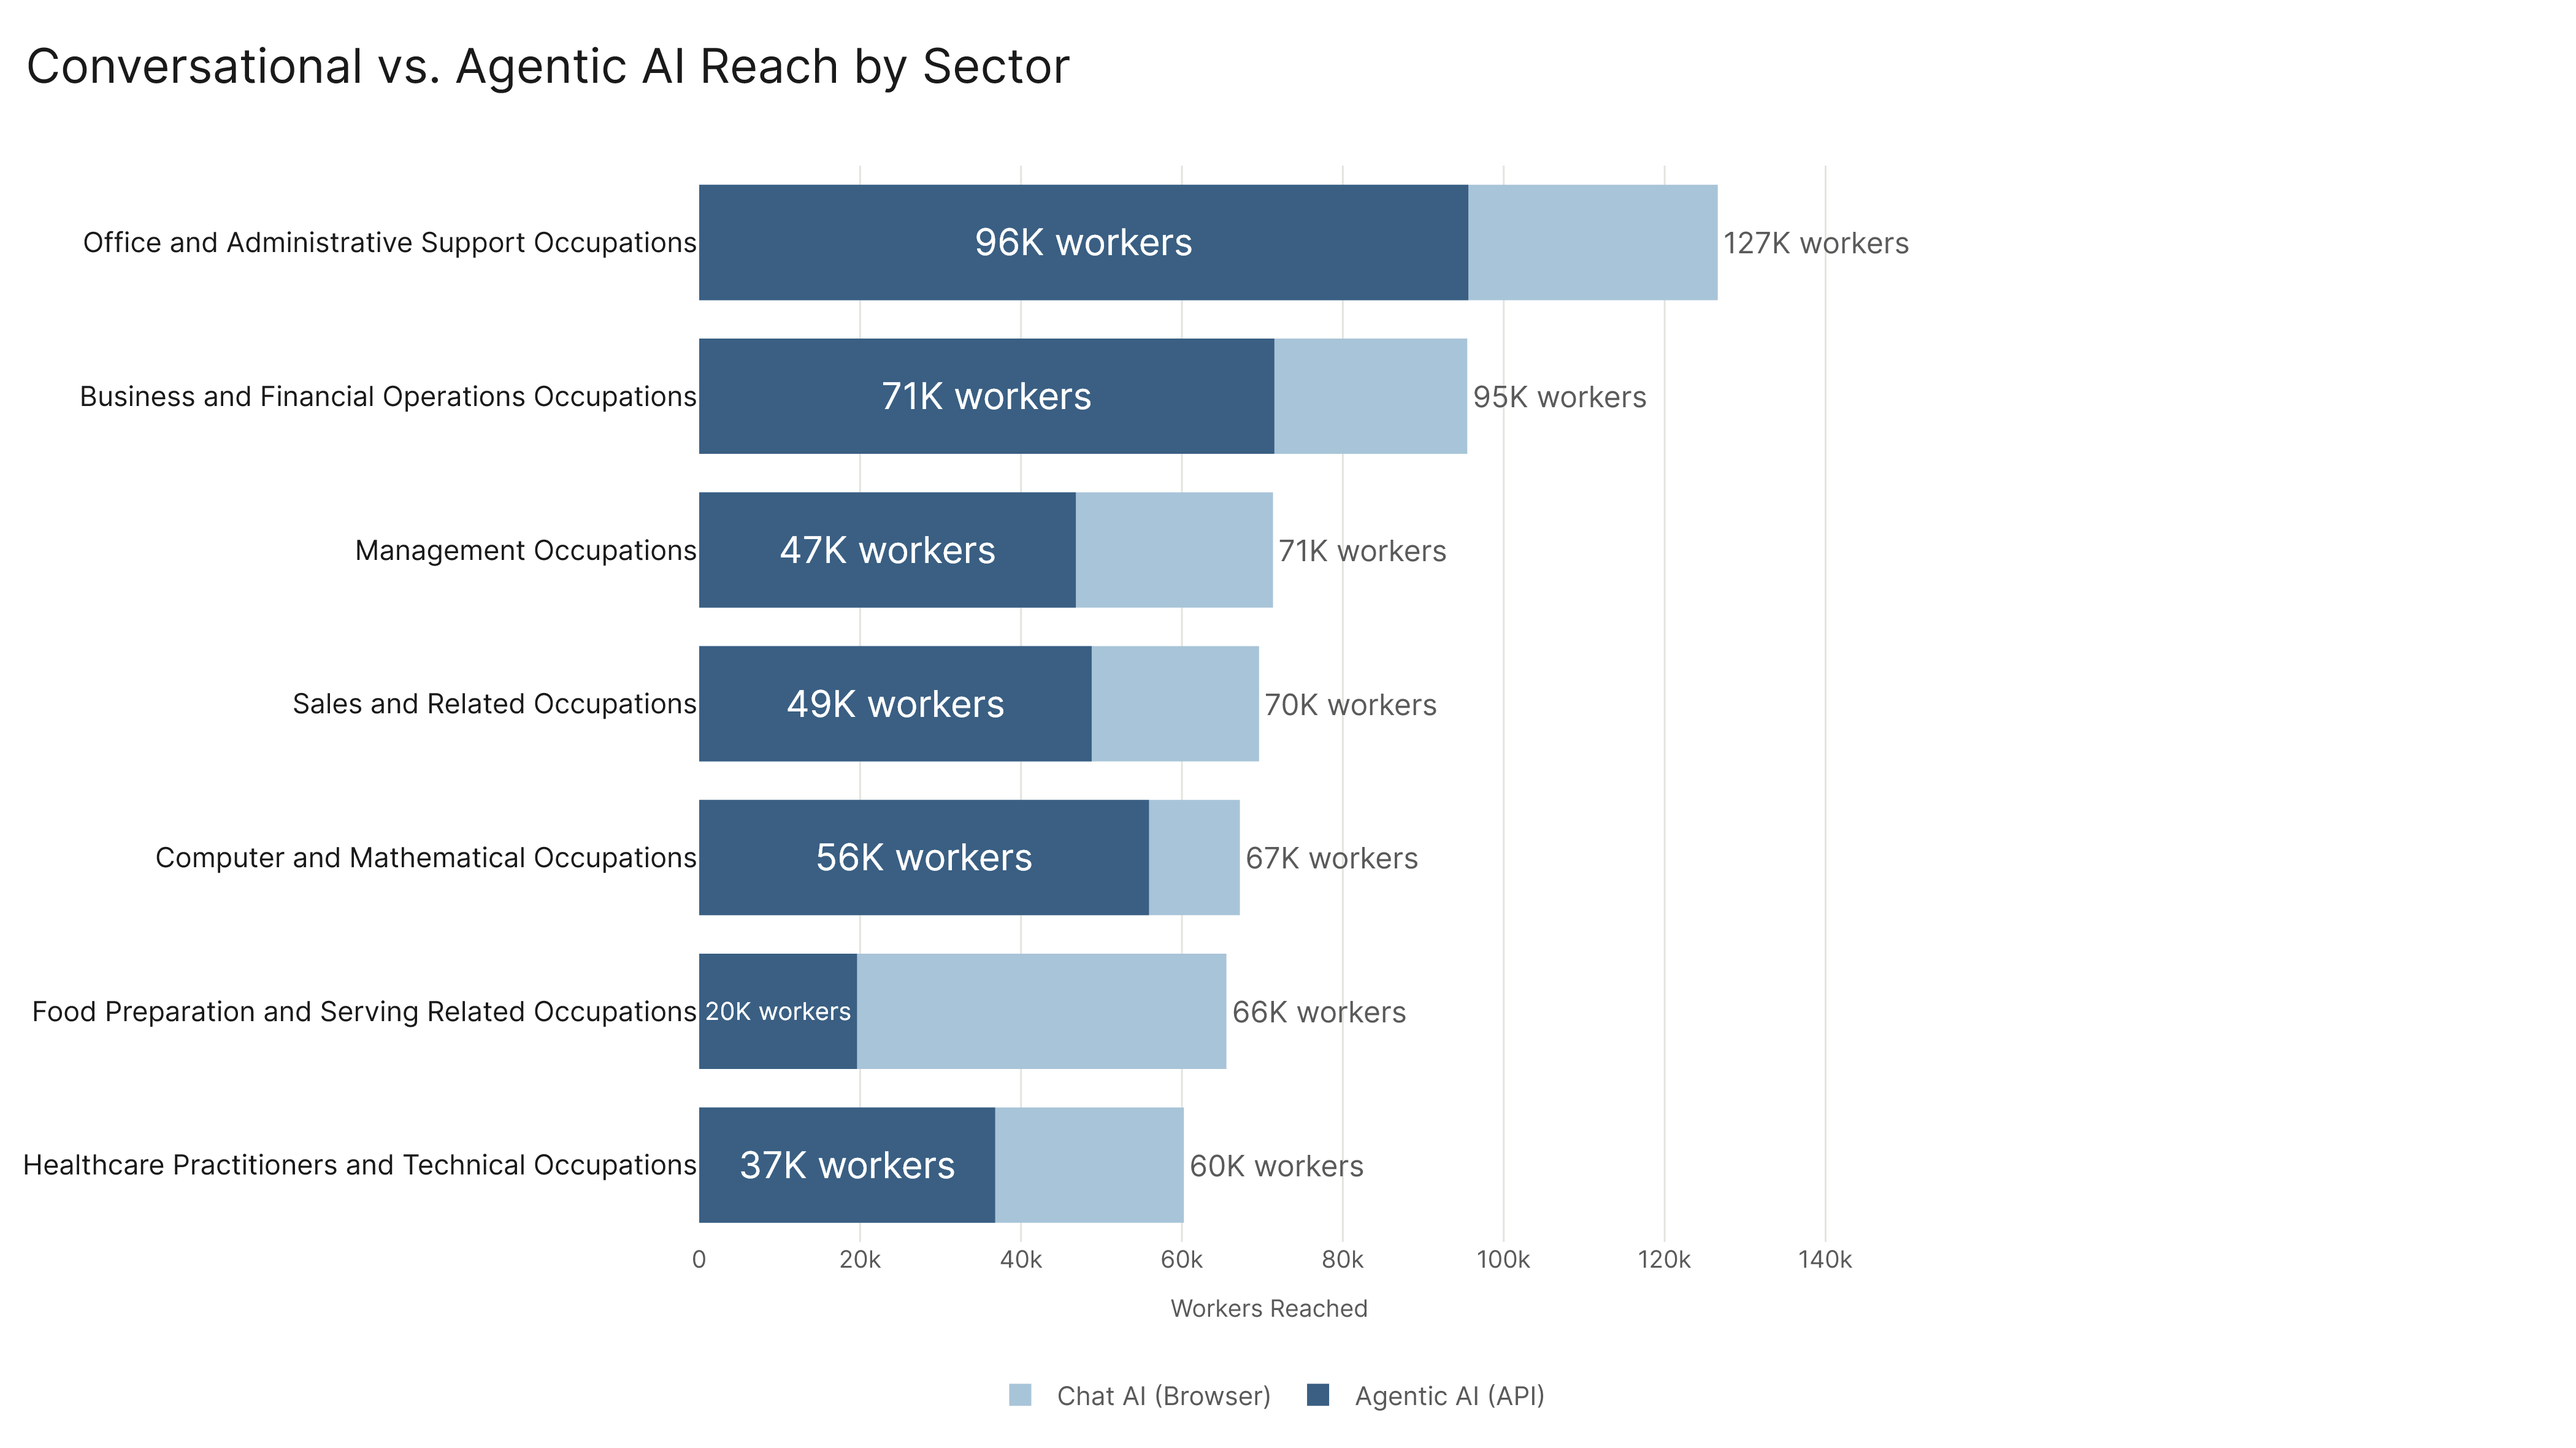
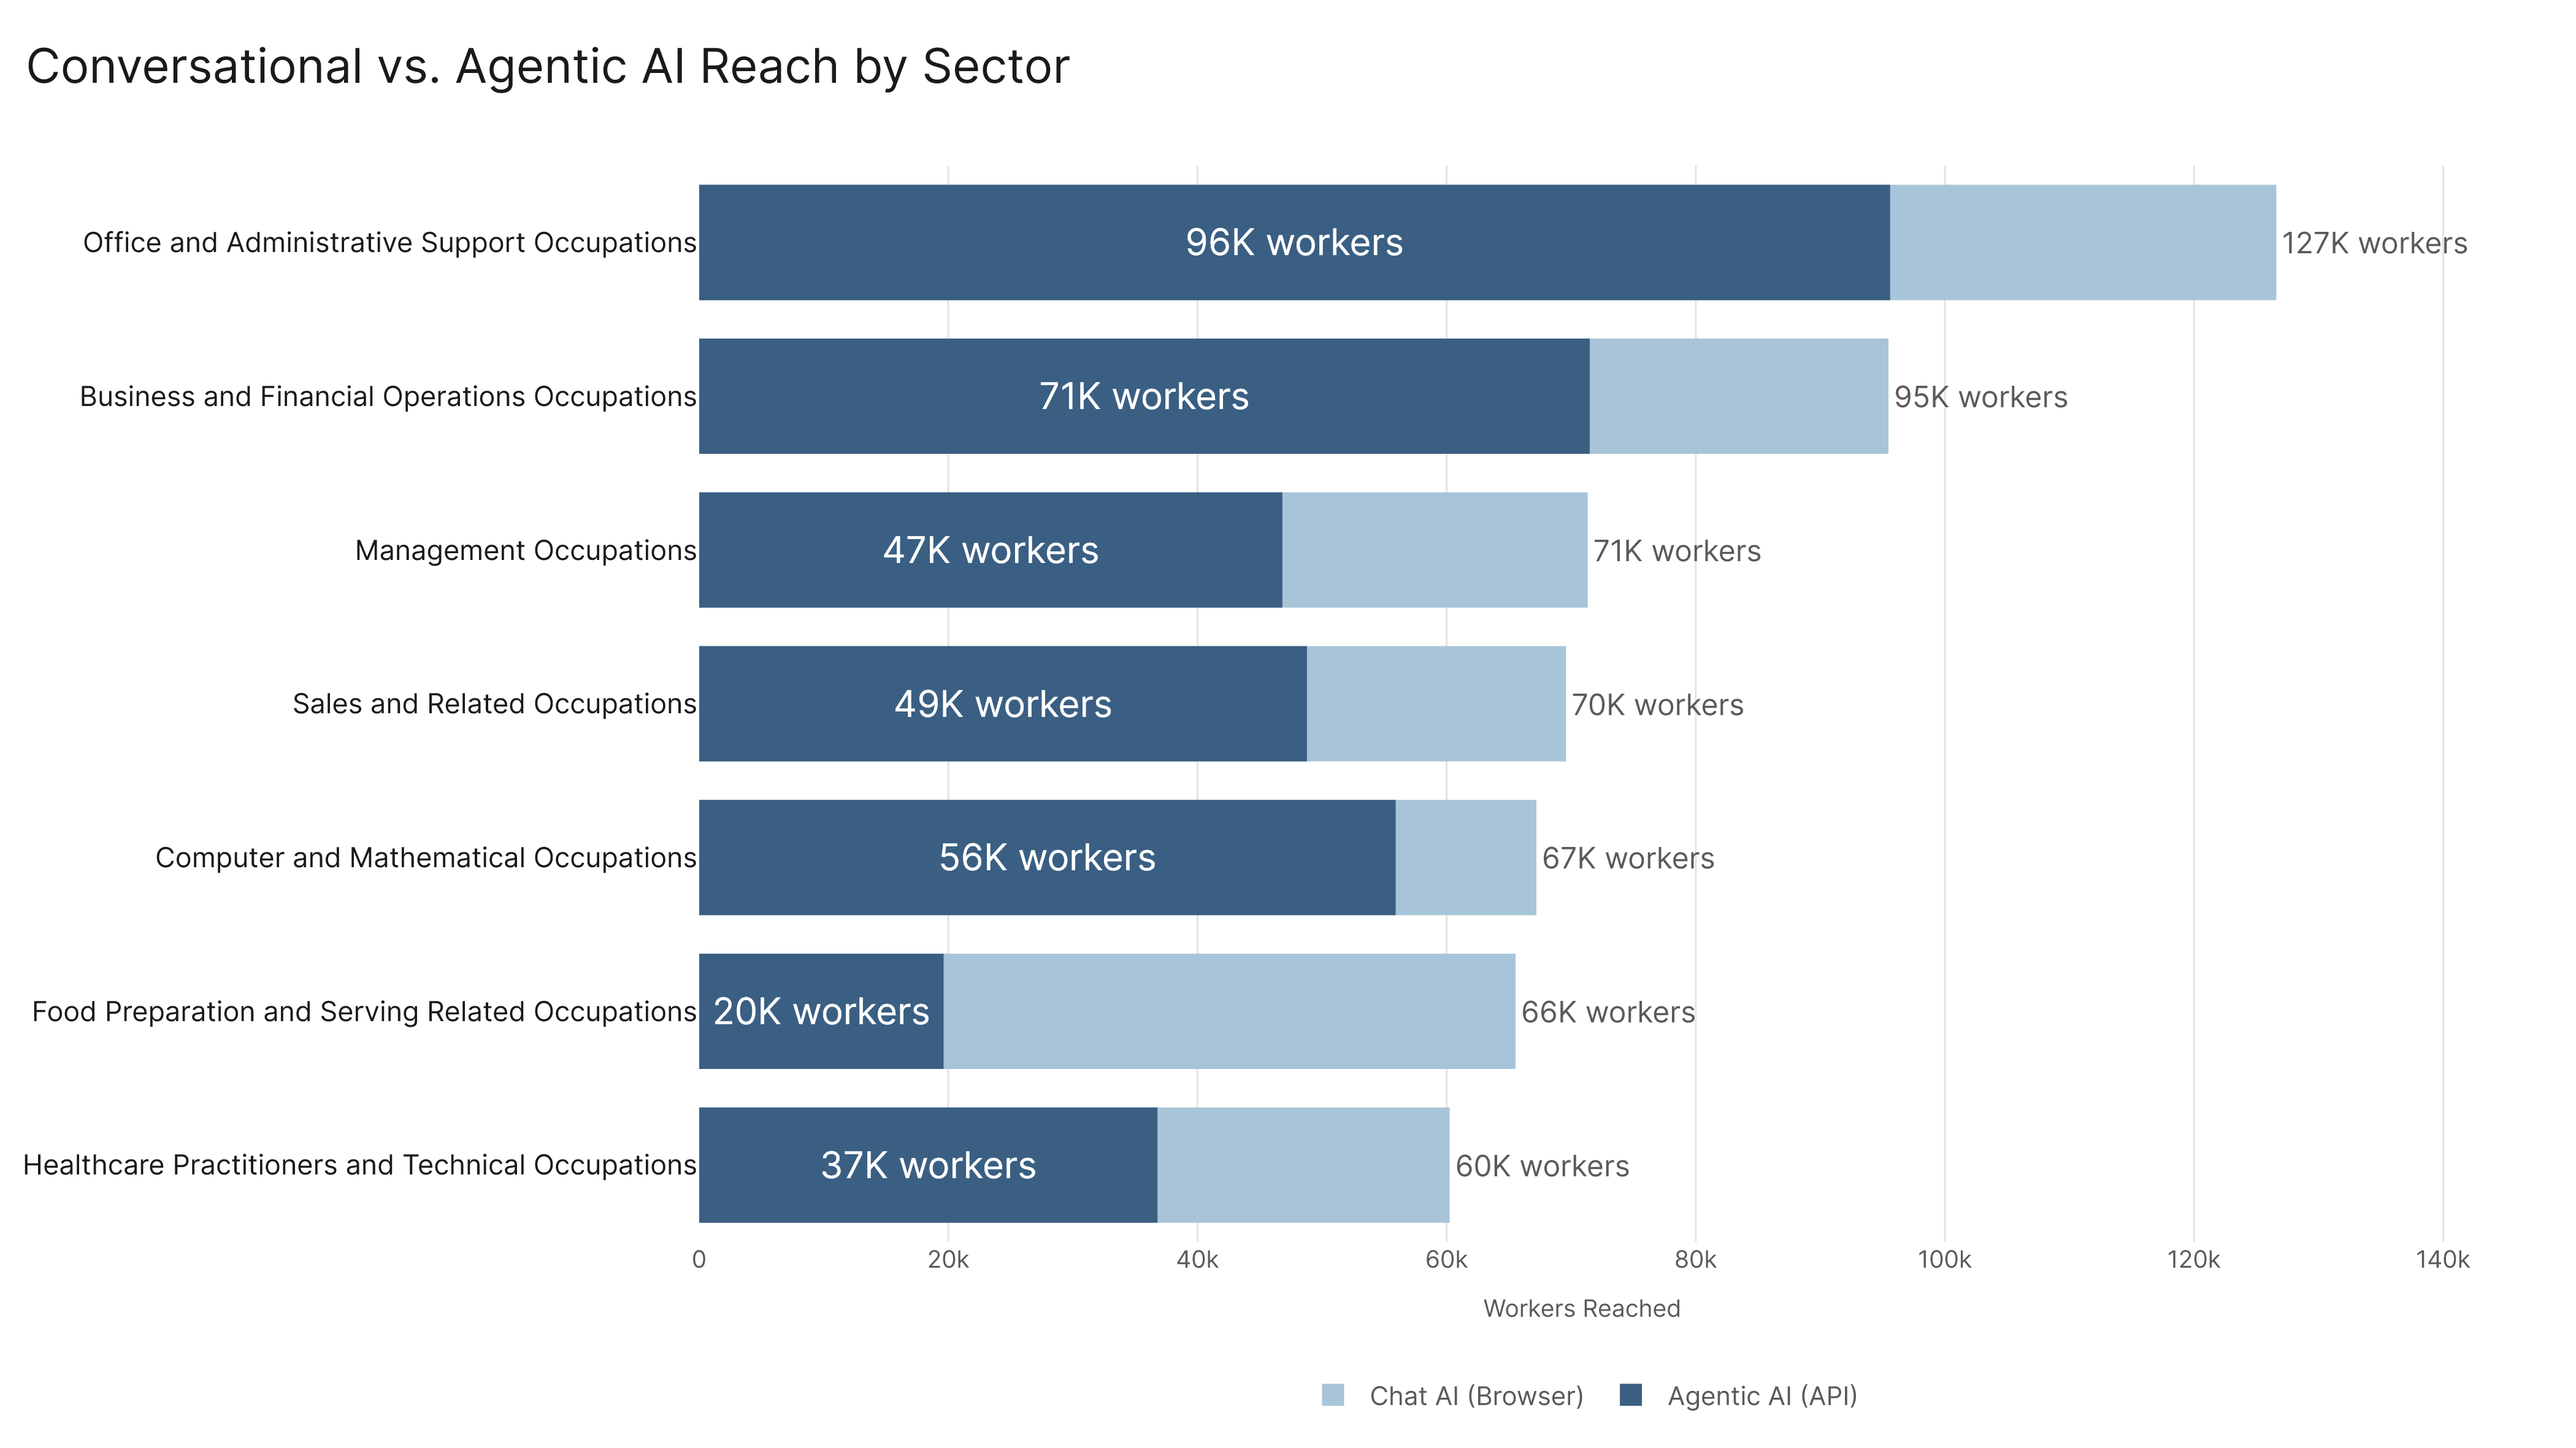
workforce_meeting_v2: scope right margin to chart type — annotated bars get r=400, others r=60

diff --git a/analysis/questions/workforce_meeting_v2/run.py b/analysis/questions/workforce_meeting_v2/run.py
@@ -225,7 +225,7 @@ def _apply_base_style(
     )
     fig.update_layout(
         title=dict(font=dict(size=TITLE_FS, color=COLORS["text"], family=FONT_FAMILY)),
-        margin=dict(l=20, r=400, t=90, b=80),
+        margin=dict(l=20, r=60, t=90, b=80),
     )
     return fig
 
@@ -295,6 +295,7 @@ def _annotated_bar(
     )
 
     _apply_base_style(fig, title, subtitle=subtitle)
+    fig.update_layout(margin=dict(l=20, r=400, t=90, b=80))
 
     xaxis_cfg: dict = dict(
         showgrid=True,
